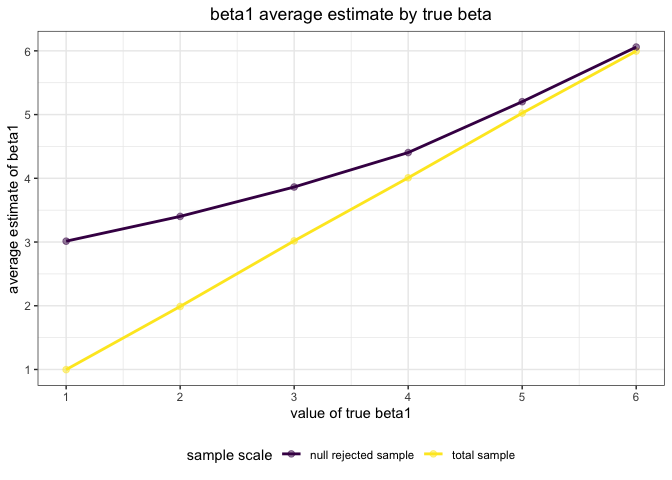
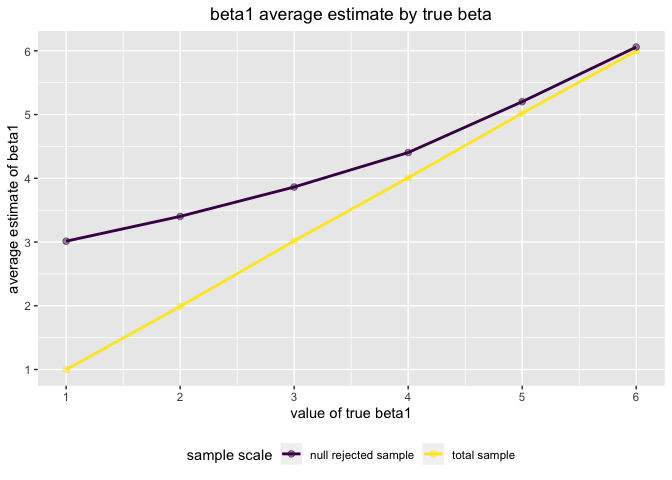
Final commits for hw 5

diff --git a/p8105_hw5_cz2540.md b/p8105_hw5_cz2540.md
@@ -149,9 +149,14 @@ filter(beta_1_p < 0.05) %>%
   summarize(
     proport_reject = n()/10000
   ) %>%
-  ggplot(aes(x = new_beta1, proport_reject, color = proport_reject)) +
-    theme_bw() + 
-    geom_point(size = 2, alpha = 0.5) + geom_smooth()
+  
+ggplot(aes(x = new_beta1, proport_reject, color = proport_reject)) + 
+    geom_point(size = 2, alpha = 0.5) + geom_smooth() +
+    labs(title = "Proportion of times that null was rejected by true beta1 value", x="true beta1 value", y="proportion of rejection") +
+    theme(plot.title = element_text(hjust = 0.5),legend.position = "none") +
+    scale_x_continuous(
+    breaks = c(0,1,2,3,4,5,6), 
+    labels = c(0,1,2,3,4,5,6)) 
 ```
 
     ## `geom_smooth()` using method = 'loess' and formula 'y ~ x'
@@ -166,23 +171,10 @@ filter(beta_1_p < 0.05) %>%
 
     ## Warning in stats::qt(level/2 + 0.5, pred$df): NaNs produced
 
-![](p8105_hw5_cz2540_files/figure-gfm/unnamed-chunk-7-1.png)<!-- -->
-
-``` r
-    labs(title = "Proportion of times that null was rejected by true beta1 value", x="true beta1 value", y="proportion of rejection") +
-    theme(plot.title = element_text(hjust = 0.5),legend.position = "none") +
-    scale_x_continuous(
-    breaks = c(0,1,2,3,4,5,6), 
-    labels = c(0,1,2,3,4,5,6)) 
-```
-
-    ## NULL
-
-  - There seems to be a linear relation between the true value of beta
-    and power of the test; As the true beta increases, the power of the
-    test also increases.
-
-<!-- end list -->
+![](p8105_hw5_cz2540_files/figure-gfm/unnamed-chunk-7-1.png)<!-- --> \*
+There seems to be a linear relation between the true value of beta and
+power of the test; As the true beta increases, the power of the test
+also increases.
 
 ``` r
 # plot avg estimates of beta1
@@ -204,8 +196,7 @@ avg_samp = beta1_regenerate %>%
   mutate(group = rep("null rejected sample"))
 mean_beta1 = bind_rows(avg_pop, avg_samp) 
 
-ggplot(mean_beta1, aes(x = new_beta1, y = mean_beta1, group = group, color = group)) +
-  theme_bw() + 
+ggplot(mean_beta1, aes(x = new_beta1, y = mean_beta1, group = group, color = group)) + 
   geom_point(size = 2, alpha = 0.5) +
   geom_line(size = 1) +
   labs(title = "beta1 average estimate by true beta", x="value of true beta1", y="average estimate of beta1") +
